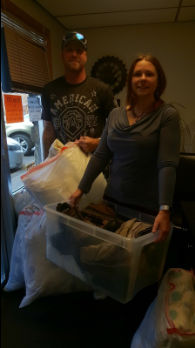
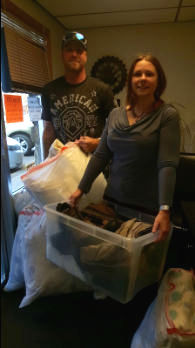
Adds new associate, Josh, and brightens photo of Dale

diff --git a/index.html b/index.html
@@ -120,6 +120,19 @@
         <section class="bg-grey">
           <div class="section-container">
             <div class="split">
+              <div class="img-side"><img src="assets/Employees/josh.jpg" alt="photo of Josh" class="employee-img" width="170"></div>
+              <div class="content-side">
+                <h3>Josh</h3>
+                <p>Josh joins our team as a dedicated agent whose goal is to help current clients of JM Insurance with all of their insurance needs, and to aid us in growing our agency. He is a licensed insurance agent who specializes in Property and Casualty Insurance as well asLife Insurance.</p>
+                <p>Josh is a Montana local who has called many places within the state home such as Bozeman, Great Falls, Glasgow, Missoula, Lavina, Harlowton, and of course, Billings! Josh has an extensive background in customer service, and is great with people as he has been employed in the food and retail industries as a manager for over 20 years. He also has a background in finance, as he has worked in banking for nearly 5 years, and has been in the insurance industry for over a year as of now.</p>
+                <p>Outside of work, he enjoys the fulfilling full-time job of being a parent to 4 children, ages ranging from 20 years all the way down to 11 years old. He is a committed sports fan, his favorite teams being the New York Mets and Chicago Bears. Josh is also passionateabout helping local causes, and believes that strong community involvement is an integral part of allowing its members to feel safe and supported. He mainly is interested in dedicating his time to help out veterans in our area, and is open to many other community charitable ventures.</p>
+              </div>
+            </div>
+          </div>
+        </section>
+        <section class="bg-creamy-white">
+          <div class="section-container">
+            <div class="split">
               <div class="img-side"><img src="assets/Employees/Azael_Headshot.jpg" alt="photo of azael" class="employee-img" width="170"></div>
               <div class="content-side">
                 <h3>Azael</h3>
@@ -131,7 +144,7 @@
             </div>
           </div>
         </section>
-        <section class="bg-creamy-white">
+        <section class="bg-grey">
           <div class="section-container">
             <div class="split">
               <div class="img-side"><img src="/assets//Employees/Joni_Final_Photo.jpg" alt="photo of joni" class="employee-img" width="170"></div>
@@ -147,6 +160,7 @@
             </div>
           </div>
         </section>
+        
         <!-- Community and news section -->
         <section id="news" class="bg-grey">
           <div class="section-container">

diff --git a/css/styles.css b/css/styles.css
@@ -166,7 +166,7 @@ img {
     margin-bottom: .2rem;
 }
 
-.navbar {
+nav.navbar {
     background-color: var(--white);
 }
 
@@ -422,7 +422,6 @@ form .user-details .input-box {
     border-width: 0 3px 3px 0;
     transform: rotate(45deg);
 }
-
 
 .form-button {
     height: 2.5rem;
